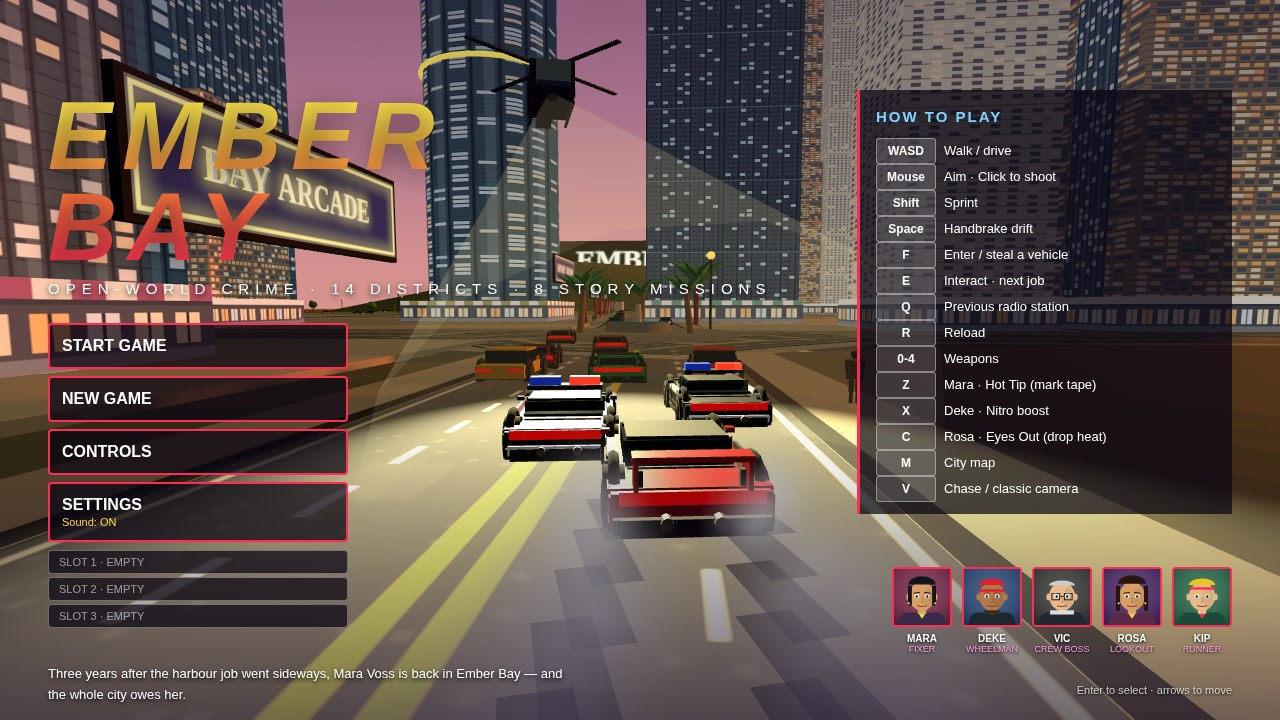
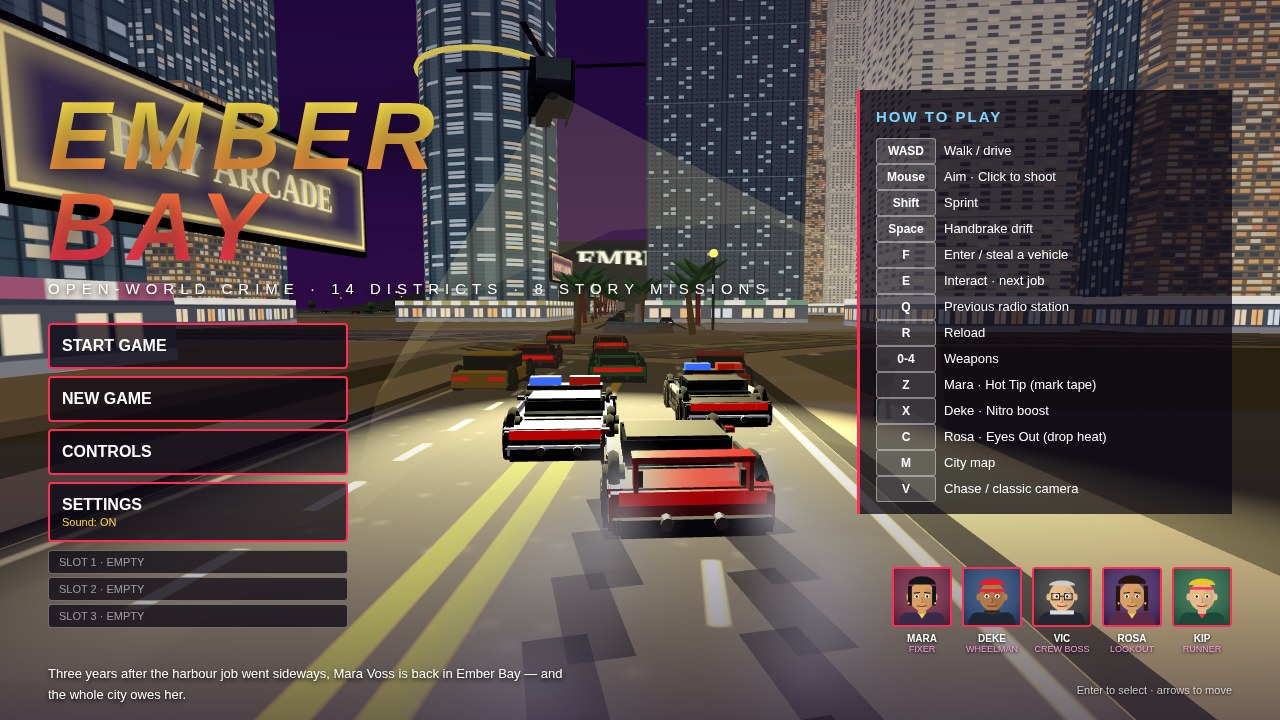
Ember Bay v17: dense streetfront city at dusk, neon venues, park pocket
Streetfront row along ns[3]: 23 shopfront buildings with faces 11.5 m
from the road centre, neon venue signs (EMBER TACOS, HOTEL CORALIE,
DUSK CINEMA, NOODLE BAR) and a park pocket, all guarded off EW roads,
diagonals, minor streets and the freeway (centre-distance checks).
Dusk re-skin: indigo-violet-magenta-amber sky, sun disc lowered, fog
0x241a3e, clocks 19.8 (combat stays 21.7 night), shopfront emissive
0.7, tower emissive 0.5, lamps 1.6, night hemi 0.5. Comment cuts pay
for the dossier bytes (text 163796 B, cap 163840).

diff --git a/game/src/city.js b/game/src/city.js
@@ -28,8 +28,6 @@ export function districtAt(x, z) {
   return { name: 'Ember Bay', type: 'residential' };
 }
 
-// Per-district standing 0-100: beach + downtown crews like you, the docks
-// and the hood do not — yet. +5 when a mission completes in that district.
 export const STANDING = {
   'Old Town': 48, 'Glass Mile': 66, 'Northgate': 52, 'Marina Point': 64,
   'Downtown Core': 62, 'Hillcrest': 55, 'Sunset Row': 58, 'Hoodside': 38,
@@ -347,7 +345,7 @@ function shopfrontTexture(color) {
 function shopMat(color, w = 20) {
   const t = shopfrontTexture(color);
   t.repeat.set(Math.max(1, Math.round(w / 13)), 1);
-  return new THREE.MeshStandardMaterial({ map: t, emissiveMap: t, emissive: 0xffffff, emissiveIntensity: 0.4, roughness: 0.6, metalness: 0.1 });
+  return new THREE.MeshStandardMaterial({ map: t, emissiveMap: t, emissive: 0xffffff, emissiveIntensity: 0.7, roughness: 0.6, metalness: 0.1 });
 }
 
 const MAT = {};
@@ -502,12 +500,12 @@ export function buildCity(G) {
 
   const skyTex = canvasTexture(32, 256, (g, w, h) => {
     const grad = g.createLinearGradient(0, 0, 0, h);
-    grad.addColorStop(0, '#2a1a4e');
-    grad.addColorStop(0.4, '#8a3a55');
-    grad.addColorStop(0.62, '#e06030');
-    grad.addColorStop(0.78, '#ff8a3d');
-    grad.addColorStop(0.9, '#ffb36b');
-    grad.addColorStop(1, '#ffe0a8');
+    grad.addColorStop(0, '#1a1038');
+    grad.addColorStop(0.4, '#4a2060');
+    grad.addColorStop(0.62, '#8a2a6a');
+    grad.addColorStop(0.78, '#c94a6a');
+    grad.addColorStop(0.9, '#ff7a45');
+    grad.addColorStop(1, '#ffb36b');
     g.fillStyle = grad;
     g.fillRect(0, 0, w, h);
   });
@@ -547,7 +545,7 @@ export function buildCity(G) {
     g.fillRect(0, 0, w, h);
   });
   const sunDisc = new THREE.Mesh(new THREE.PlaneGeometry(150, 150), new THREE.MeshBasicMaterial({ map: sunTex, transparent: true, fog: false, depthWrite: false }));
-  sunDisc.position.set(-350, 60, 800);
+  sunDisc.position.set(-350, 8, 800);
   sunDisc.rotation.y = Math.PI;
   root.add(sunDisc);
   for (const [mx, mz, mr, mh] of [[-500, -720, 170, 130], [-100, -780, 200, 160], [300, -720, 160, 120], [720, -300, 180, 140], [720, 300, 160, 110]]) {
@@ -732,7 +730,7 @@ export function buildCity(G) {
     t.repeat.set(Math.max(1, Math.round(w / 13)), Math.max(1, Math.round(h / 13)));
     t.needsUpdate = true;
     return new THREE.MeshStandardMaterial({
-      map: t, emissiveMap: t, emissive: 0xffffff, emissiveIntensity: 0.35,
+      map: t, emissiveMap: t, emissive: 0xffffff, emissiveIntensity: 0.5,
       roughness: 0.4, metalness: 0.35,
     });
   };
@@ -1239,7 +1237,7 @@ export function buildCity(G) {
       const pole = new THREE.Mesh(new THREE.CylinderGeometry(0.18, 0.18, 9, 6), mat(0x3a3a3a));
       pole.position.set(x, 4.5, z);
       root.add(pole);
-      const lamp = new THREE.Mesh(new THREE.SphereGeometry(0.5, 8, 6), new THREE.MeshStandardMaterial({ color: 0xffe9b0, emissive: 0xffd24d, emissiveIntensity: 0.9 }));
+      const lamp = new THREE.Mesh(new THREE.SphereGeometry(0.5, 8, 6), new THREE.MeshStandardMaterial({ color: 0xffe9b0, emissive: 0xffd24d, emissiveIntensity: 1.6 }));
       lamp.position.set(x, 9.2, z);
       root.add(lamp);
     }
@@ -1251,7 +1249,7 @@ export function buildCity(G) {
       const pole = new THREE.Mesh(new THREE.CylinderGeometry(0.18, 0.18, 9, 6), mat(0x3a3a3a));
       pole.position.set(x, 4.5, z);
       root.add(pole);
-      const lamp = new THREE.Mesh(new THREE.SphereGeometry(0.5, 8, 6), new THREE.MeshStandardMaterial({ color: 0xffe9b0, emissive: 0xffd24d, emissiveIntensity: 0.9 }));
+      const lamp = new THREE.Mesh(new THREE.SphereGeometry(0.5, 8, 6), new THREE.MeshStandardMaterial({ color: 0xffe9b0, emissive: 0xffd24d, emissiveIntensity: 1.6 }));
       lamp.position.set(x, 9.2, z);
       root.add(lamp);
     }
@@ -1286,6 +1284,28 @@ export function buildCity(G) {
       if (nearCrossing(x, z)) continue;
       if (DIAGONALS.some(([ax, az, bx, bz]) => distToSegment(x, z, ax, az, bx, bz) < 12)) continue;
       makePalm(rng, x, z, root, rng.range(1.15, 1.45), 0xc23a2e, 0.55);
+    }
+  }
+  const VEN = [['EMBER TACOS', '#ff5e2d'], ['HOTEL CORALIE', '#2fd8ff'], ['DUSK CINEMA', '#ff2d95'], ['NOODLE BAR', '#ffd24d']];
+  for (let i = 0; i < 31; i++) for (const s of [-1, 1]) {
+    const z = -400 + i * 26, fx = nsPlain(stageRoad, z) + s * 11.5;
+    if (Math.hypot(fx - RBX, z - RBZ) < 34 || nearCrossing(fx, z) || nearHero(fx, z)) continue;
+    if (s > 0 && i === 25) {
+      box(9, 0.4, 15, mat(0x5a9a4a), fx + 4, 0.2, z, root);
+      makeTree({ pick: (a) => a[0] }, fx + 3, z - 3, root, 1.2);
+      continue;
+    }
+    const q = i + (s + 1) / 2, h = 6 + ((i * 3 + q) % 5) * 2, d = 12 + ((i * 5 + q) % 3) * 2, w = 7 + (i + q) % 2, bx = fx + s * w / 2;
+    const onRd = ROADS.ew.some((e) => Math.abs(z - ewCenter(e, bx, 1)) < 13 || Math.abs(z - ewCenter(e, bx, -1)) < 13)
+      || DIAGONALS.some(([ax, az, ex, ez]) => distToSegment(bx, z, ax, az, ex, ez) < 16)
+      || MINOR_SEGS.some(([ax, az, ex, ez]) => distToSegment(bx, z, ax, az, ex, ez) < 12)
+      || FREEWAY.pts.some((p) => Math.hypot(bx - p.x, z - p.z) < 19);
+    if (onRd) continue;
+    box(w, h, d, towerMat(FACADES[[2, 3, 6, 7][q % 4]], w, h), bx, h / 2 + 0.4, z, root).castShadow = true;
+    box(w + 0.6, 4, d + 0.6, shopMat(['#1c4a6a', '#6a1c3a', '#2a5a3a'][q % 3], w), bx, 2.4, z, root);
+    if (q % 7 === 3) {
+      const sg = new THREE.Mesh(new THREE.PlaneGeometry(6, 1.5), new THREE.MeshBasicMaterial({ map: neonTexture(VEN[q % 4][0], VEN[q % 4][1]) }));
+      sg.position.set(fx - s * 0.4, 5.6, z); sg.rotation.y = -s * Math.PI / 2; root.add(sg);
     }
   }
   const parkedColors = [0x2a6fd8, 0xd83a2a, 0xcccccc, 0x222831, 0xff6a00, 0x2fd05a, 0xe8b820, 0x8a6fd8];
@@ -1353,22 +1373,6 @@ export function buildCity(G) {
     g.rotation.y = 0;
     g.traverse((o) => { if (o.isMesh) o.castShadow = true; });
     root.add(g);
-  }
-  const NEON_EXTRA = [
-    ['EMBER TACOS', '#ff5e2d', -190, 8],
-    ['HOTEL CORALIE', '#2fd8ff', 190, 8],
-  ];
-  for (const [text, color, z, y] of NEON_EXTRA) {
-    const sx = nsPlain(ROADS.ns[3], z) + 10;
-    const sign = new THREE.Mesh(
-      new THREE.PlaneGeometry(13, 3.2),
-      new THREE.MeshBasicMaterial({ map: neonTexture(text, color) }),
-    );
-    sign.position.set(sx, y, z);
-    sign.rotation.y = -Math.PI / 2;
-    root.add(sign);
-    const back = box(13.4, 3.6, 0.3, mat(0x0a0614), sx + 0.2, y, z, root);
-    back.rotation.y = -Math.PI / 2;
   }
   const pier = new THREE.Group();
   const deckMat = mat(0x8a6a42, { roughness: 0.9 });

diff --git a/game/src/main.js b/game/src/main.js
@@ -16,7 +16,7 @@ const params = new URLSearchParams(location.search);
 const seed = parseInt(params.get('seed') || '1', 10) || 1;
 const shotName = params.get('shot');
 const rng = makeRng((seed ^ hashStr('ember-bay')) >>> 0);
-const SAVE_KEY = 'ember-bay-v5'; // legacy single-slot key, read once for migration
+const SAVE_KEY = 'ember-bay-v5';
 const SLOTS_KEY = 'ember-bay-v5-slots';
 const ACTIVE_KEY = 'ember-bay-v5-active';
 function loadSlots() {
@@ -26,16 +26,16 @@ function loadSlots() {
     const leg = localStorage.getItem(SAVE_KEY);
     if (leg) {
       const s = JSON.parse(leg);
-      return [{ ...s, respect: 0, standing: null, clock: 17.75, savedAt: Date.now(), chapter: (s.missionsDone?.length || 0) + 1 }, null, null];
+      return [{ ...s, respect: 0, standing: null, clock: 19.8, savedAt: Date.now(), chapter: (s.missionsDone?.length || 0) + 1 }, null, null];
     }
-  } catch { /* storage unavailable — play fresh */ }
+  } catch {}
   return [null, null, null];
 }
 function loadActive(slots) {
   try {
     const a = Number(localStorage.getItem(ACTIVE_KEY));
     if (a >= 0 && a < 3 && slots[a]) return a;
-  } catch { /* ignore */ }
+  } catch {}
   let best = -1, bestT = -1;
   slots.forEach((s, i) => { if (s && (s.savedAt || 0) > bestT) { bestT = s.savedAt || 0; best = i; } });
   return best >= 0 ? best : 0;
@@ -51,7 +51,7 @@ renderer.shadowMap.type = THREE.PCFSoftShadowMap;
 renderer.domElement.classList.add('webgl');
 document.getElementById('app').appendChild(renderer.domElement);
 const scene = new THREE.Scene();
-scene.fog = new THREE.Fog(0xe07a45, 320, 1300);
+scene.fog = new THREE.Fog(0x241a3e, 320, 1300);
 const camera = new THREE.PerspectiveCamera(62, window.innerWidth / window.innerHeight, 0.1, 4000);
 const hemi = new THREE.HemisphereLight(0xffd9a0, 0x4a3a55, 0.7);
 const sun = new THREE.DirectionalLight(0xff8a3d, 1.9);
@@ -65,7 +65,7 @@ sun.shadow.bias = -0.0004; sun.shadow.normalBias = 0.5;
 scene.add(hemi, sun, sun.target);
 const G = {
   scene, camera, renderer, rng, seed,
-  time: 0, clock: 17.75, day: 1,
+  time: 0, clock: 19.8, day: 1,
   money: 500, health: 100, armour: 50, respect: 0,
   weaponIdx: 1, mode: 'menu',
   vehicle: null, parked: [], camOverride: null, shot: null,
@@ -83,7 +83,7 @@ const G = {
 };
 if (G.save) {
   G.money = G.save.money ?? 500; G.day = G.save.day ?? 1;
-  G.respect = G.save.respect ?? 0; G.clock = G.save.clock ?? 17.75;
+  G.respect = G.save.respect ?? 0; G.clock = G.save.clock ?? 19.8;
 }
 G.setClock = (h) => {
   G.clock = ((h % 24) + 24) % 24;
@@ -92,9 +92,9 @@ G.setClock = (h) => {
   if (night) {
     sun.position.set(300, 400, -200);
     sun.intensity = 0.35; sun.color.setHex(0x8aa0ff);
-    hemi.intensity = 0.35;
-    scene.fog.color.setHex(0x14142e); scene.fog.near = 200; scene.fog.far = 900;
-    if (G.city?.sky) G.city.sky.material.color.setHex(0x35355e);
+    hemi.intensity = 0.5;
+    scene.fog.color.setHex(0x241a3e); scene.fog.near = 200; scene.fog.far = 1100;
+    if (G.city?.sky) G.city.sky.material.color.setHex(0x4a2a6e);
   } else if (sunset) {
     sun.position.set(-850, 130, 320);
     sun.intensity = 1.9; sun.color.setHex(0xff8a3d);
@@ -121,11 +121,11 @@ G.saveGame = () => {
     };
     localStorage.setItem(SLOTS_KEY, JSON.stringify(SLOTS));
     localStorage.setItem(ACTIVE_KEY, String(G.slot));
-  } catch { /* storage unavailable — play on without saving */ }
+  } catch {}
 };
 G.slotInfo = () => SLOTS.map((s, i) => (s ? {
   slot: i, chapter: s.chapter || 1, money: s.money, day: s.day,
-  missions: (s.missionsDone || []).length, clock: s.clock ?? 17.75, savedAt: s.savedAt || 0,
+  missions: (s.missionsDone || []).length, clock: s.clock ?? 19.8, savedAt: s.savedAt || 0,
 } : { slot: i, empty: true }));
 // Rank on the display value round(respect*13), max ~1300: the top two ranks
 // (FIXER 1500+, SHOT CALLER 3000+) are unreachable at respect 100 — the
@@ -402,8 +402,6 @@ if (G.save) {
 document.getElementById('btnStart').addEventListener('click', () => G.startGame());
 document.getElementById('btnContinue').addEventListener('click', () => G.startGame());
 document.getElementById('btnNew').addEventListener('click', () => {
-  // Fresh game in the first empty slot; if all three are full, the oldest
-  // slot (by savedAt) is overwritten.
   try {
     const slots = G.slotInfo();
     let target = slots.findIndex((s) => s.empty);
@@ -415,7 +413,7 @@ document.getElementById('btnNew').addEventListener('click', () => {
     SLOTS[target] = null;
     localStorage.setItem(SLOTS_KEY, JSON.stringify(SLOTS));
     localStorage.setItem(ACTIVE_KEY, String(target));
-  } catch { /* ignore */ }
+  } catch {}
   location.reload();
 });
 // Title-screen save slots: occupied loads that slot (reload + auto-start),
@@ -437,7 +435,7 @@ document.getElementById('btnNew').addEventListener('click', () => {
           localStorage.setItem(SLOTS_KEY, JSON.stringify(SLOTS));
         }
         sessionStorage.setItem('ember-autostart', '1');
-      } catch { /* ignore */ }
+      } catch {}
       location.reload();
     });
     list.appendChild(row);
@@ -584,6 +582,6 @@ else {
       sessionStorage.removeItem('ember-autostart');
       G.startGame();
     }
-  } catch { /* ignore */ }
+  } catch {}
 }
 loop();

diff --git a/game/src/shots.js b/game/src/shots.js
@@ -57,7 +57,7 @@ export function stageShot(G, name) {
   G.shot = name;
   G._aimPose = false;
   if (name === 'title') {
-    G.setClock(17.75);
+    G.setClock(19.8);
     G.mode = 'playing';
     G.hud.setMenu(true);
     G.player.group.visible = false;
@@ -77,7 +77,7 @@ export function stageShot(G, name) {
     return;
   }
   if (name === 'map') {
-    G.setClock(17.75);
+    G.setClock(19.8);
     G.mode = 'playing';
     G.hud.setMenu(false);
     G.camOverride = { pos: [-100, 700, 80], look: [-100, 0, 0] };
@@ -91,7 +91,7 @@ export function stageShot(G, name) {
   G.hud.setMenu(false);
   const pt = roadPoint('ns', G.shot === 'cover' ? COVER_ROAD : STAGE_ROAD, -30, 1);
   if (name === 'cover') {
-    G.setClock(17.75);
+    G.setClock(19.8);
     enterSport(G, pt.x, pt.z, pt.heading, 38);
     G.missions.startId(5);
     G.hud.dialogue('MARA VOSS', 'FIXER', 'Three stars and counting. Stay hot for 45 seconds and they\'ll know your name.', 'mara', true);

diff --git a/game/src/missions.js b/game/src/missions.js
@@ -92,8 +92,6 @@ export function initMissions(G) {
         return;
       }
       if (step.type === 'clear') {
-        // Fresh guards only: clear any crew from a previous attempt so the
-        // count is this mission's own guards, then spawn them ahead of the player.
         G.clearCrew();
         const fx = Math.sin(G.playerHeading), fz = Math.cos(G.playerHeading);
         G.spawnCrew(G.playerPos.x + fx * 10, G.playerPos.z + fz * 10, step.count || 3);
